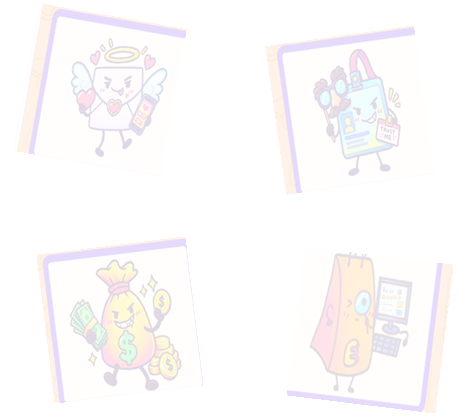
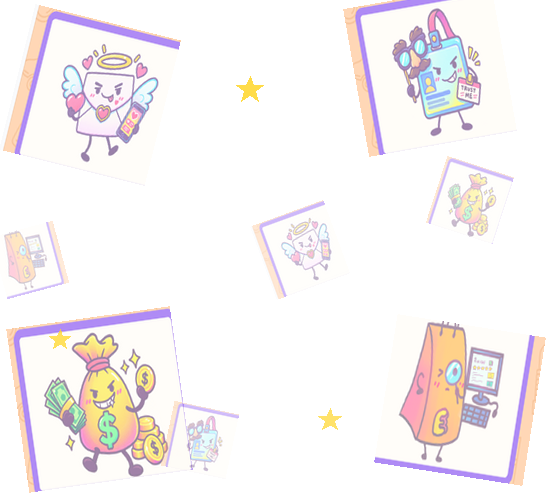
adding new features

diff --git a/css/styles.css b/css/styles.css
@@ -26,6 +26,18 @@
   box-sizing: border-box;
 }
 
+/* Any element toggled with the `hidden` attribute or `.hidden = true` in JS
+   must actually disappear. By default this works, but as soon as ANY class
+   on that element also sets `display` (e.g. .kps-btn sets display:inline-flex,
+   .kps-card sets display:flex), that class wins over the browser's built-in
+   [hidden] rule because both are "author" styles of equal specificity and
+   the later one in the cascade wins. The fix: force [hidden] to always win.
+   If you ever see an element show up even though you set .hidden = true in
+   JS, this is the rule that's supposed to prevent that — don't remove it. */
+[hidden] {
+  display: none !important;
+}
+
 html, body {
   height: 100%;
 }
@@ -58,9 +70,19 @@ code {
   align-items: stretch;
   display: block;
   padding: 0;
-  background-image: url('/assets/kps/quiz-bg-tile.png');
-  background-repeat: repeat;
-  background-size: 230px 210px;
+  /* Mascot sticker tile on top of a soft brand gradient. The gradient is
+     `background-attachment: fixed` (doesn't repeat, doesn't scroll) so it
+     reads as one continuous backdrop; the mascot tile repeats over it.
+     clamp() scales the tile itself between phone and laptop viewport
+     widths so the pattern density looks right on every screen size. */
+  background-image:
+    url('/assets/kps/quiz-bg-tile.png'),
+    linear-gradient(135deg, #ffe3f6 0%, #e6c9ff 55%, #cdeaff 100%);
+  background-repeat: repeat, no-repeat;
+  background-size:
+    clamp(200px, 26vw, 340px) clamp(179px, 23vw, 304px),
+    cover;
+  background-attachment: scroll, fixed;
 }
 
 /* ── Card (passcode / admin) ─────────────────── */
@@ -272,11 +294,35 @@ code {
   padding: 2rem 1.5rem;
   display: flex;
   flex-direction: column;
+  align-items: center;
   gap: 1rem;
 }
 .game-area h1 { font-size: 1.6rem; font-weight: 800; }
 .game-area p { font-weight: 500; }
 .game-area .kps-btn { align-self: flex-start; }
+
+/* Quiz cards specifically (not the passcode/admin login cards, which stay
+   at their original compact width) get roomier on tablet/laptop screens,
+   and their inner text scales fluidly between phone and desktop sizes
+   with clamp() instead of relying only on fixed @media breakpoints. */
+.kps-quiz-card {
+  width: 100%;
+}
+
+#quiz-scenario {
+  font-size: clamp(1.15rem, 1rem + 1.1vw, 1.6rem);
+  line-height: 1.35;
+}
+
+.kps-quiz-option {
+  font-size: clamp(0.95rem, 0.9rem + 0.3vw, 1.05rem);
+}
+
+#quiz-progress {
+  font-size: clamp(0.85rem, 0.8rem + 0.2vw, 0.95rem);
+  flex-wrap: wrap;
+  justify-content: center;
+}
 
 /* ── Admin dashboard layout ─────────────────── */
 .admin-body { background: var(--kps-bg); }
@@ -438,4 +484,21 @@ code {
   .kps-card-title { font-size: 1.5rem; }
   .game-area { padding: 1.25rem 1rem; }
   .admin-main { padding: 1.25rem 1rem; }
+  .kps-category-icon { width: 26px; height: 26px; }
+}
+
+/* Tablet and laptop: give the quiz card more breathing room than the
+   460px cap used by the passcode/admin login cards. */
+@media (min-width: 700px) {
+  .kps-quiz-card {
+    max-width: 600px;
+    padding: 2.25rem 2rem;
+  }
+}
+
+@media (min-width: 1100px) {
+  .kps-quiz-card {
+    max-width: 680px;
+    padding: 2.5rem 2.5rem;
+  }
 }

diff --git a/game/index.html b/game/index.html
@@ -19,7 +19,7 @@
 				     js/pages/game/questions.js — add more scenarios there,
 				     nothing here needs to change.
 				     ════════════════════════════════════════════════════════ -->
-				<div id="quiz-screen" class="kps-card">
+				<div id="quiz-screen" class="kps-card kps-quiz-card">
 					<p id="quiz-progress" class="kps-info"></p>
 					<h1 id="quiz-scenario" class="kps-card-title"></h1>
 					<div id="quiz-options" class="kps-quiz-options"></div>
@@ -27,7 +27,7 @@
 					<button type="button" id="quiz-next" class="kps-btn kps-btn-primary" hidden>Next</button>
 				</div>
 
-				<div id="quiz-result" class="kps-card" hidden>
+				<div id="quiz-result" class="kps-card kps-quiz-card" hidden>
 					<h1 class="kps-card-title">Nice work!</h1>
 					<p id="quiz-score" class="kps-card-subtitle"></p>
 					<p id="game-status" class="kps-info" hidden></p>

diff --git a/README.md b/README.md
@@ -10,6 +10,7 @@ A starter template for Kids PlaySafer educational web apps and games — powered
 - [Working with the database](#working-with-the-database)
 - [Analytics](#analytics)
 - [Building your game](#building-your-game)
+- [The scam quiz game (senior edition)](#the-scam-quiz-game-senior-edition)
 - [Common snippets](#common-snippets)
 - [Deploying](#deploying)
 - [Admin: one-time project setup](#admin-one-time-project-setup)
@@ -189,6 +190,191 @@ The shared kid account means **every kid appears as the same Firebase user**. Do
 
 ---
 
+## The scam quiz game (senior edition)
+
+This template's `/game/` page is currently built out as a multiple-choice
+scam-awareness quiz for seniors, covering Singapore-specific scam patterns.
+This section documents how it works so the next developer can extend it
+without having to reverse-engineer it.
+
+### File map
+
+| File | What it's for |
+|---|---|
+| `js/pages/game/questions.js` | The question bank: all scenarios, the `CATEGORIES` map, and `getRandomQuiz()` which builds one randomized playthrough. **This is the file you edit to add/change questions or categories.** |
+| `js/pages/game/index.js` | Quiz engine: renders one question at a time, scores answers, fires analytics, saves the completion doc, then hands off to the existing survey. You shouldn't need to touch this to add content — only if you're changing *how* the quiz behaves. |
+| `game/index.html` | The quiz/result card markup (`#quiz-screen`, `#quiz-result`) plus the existing survey `<template>`. |
+| `css/styles.css` | `.kps-quiz-option`, `.kps-quiz-card`, `.kps-category-icon`, `#quiz-progress`, and the `.screen-game` background rules. |
+| `assets/kps/quiz-bg-tile.png` | The repeating mascot-sticker background tile behind the game screen. |
+| `assets/kps/categories/*.png` | Full-opacity category mascot art (love, impersonation, investment, ecommerce), cropped from the original card illustrations. Used both to build the background tile and as the small icon shown next to the category name during play. |
+
+### Question bank & categories
+
+Each question in `QUESTIONS` (in `questions.js`) looks like:
+
+```javascript
+{
+  category: 'impersonation',       // must match a key in CATEGORIES
+  scenario: 'The situation...',
+  options: ['choice A', 'choice B', 'choice C', 'choice D'],
+  correctIndex: 1,                 // index into options[]
+  explanation: 'Why that answer is right — shown after the player answers',
+}
+```
+
+`CATEGORIES` maps each category key to a display label, emoji, and
+(optionally) an icon image path:
+
+```javascript
+export const CATEGORIES = {
+  impersonation: { label: 'Impersonation', emoji: '🎭', icon: '/assets/kps/categories/impersonation.png' },
+  blessing:      { label: 'Blessing Scam', emoji: '🙏', icon: null }, // no artwork yet — falls back to emoji only
+  ...
+};
+```
+
+**To add a new scam category:** add an entry to `CATEGORIES`, then add
+questions with that `category` key to `QUESTIONS`. If you have mascot
+artwork for it, drop the PNG in `assets/kps/categories/` and point `icon`
+at it — no other code changes needed. If you don't have art yet, leave
+`icon: null` and the quiz will just show the emoji + label.
+
+**To add more questions to an existing category:** just push more objects
+into `QUESTIONS` with that `category`. Nothing else needs to change.
+
+### Randomization
+
+`getRandomQuiz(perCategory = 2)` (bottom of `questions.js`) builds one
+quiz playthrough:
+
+1. Groups all questions by category.
+2. Shuffles each category's pool independently (Fisher–Yates) and takes up
+   to `perCategory` from each — so every playthrough still covers every
+   scam type, it's just *which* questions and in *what order* that varies.
+3. Shuffles the combined list so categories don't always appear in the
+   same sequence.
+
+`index.js` calls this once per page load (`const quizQuestions = getRandomQuiz();`).
+As the question bank grows, this automatically starts drawing from a
+bigger pool — you don't need to change the randomization logic.
+
+### Analytics
+
+Two events fire during the quiz (see `EVENTS` in `js/constants.js`):
+
+- **`EVENTS.QUESTION_ANSWERED`** — fires on every answer, with
+  `{ questionIndex, category, correct, selectedIndex }`. Use this to see
+  which categories (or specific scenarios) trip people up most often.
+- **`EVENTS.GAME_COMPLETED`** — fires once at the end, with
+  `{ source: 'scam_scenario_quiz', score, total }`.
+
+The `completions` doc saved at the end also stores a `categoryStats`
+object for convenience, so you don't have to reconstruct it from raw
+events:
+
+```javascript
+{
+  source: 'scam_scenario_quiz',
+  score: 7,
+  total: 10,
+  durationMs: 143201,
+  categoryStats: {
+    impersonation: { correct: 2, total: 2 },
+    blessing:      { correct: 1, total: 2 },
+    love:          { correct: 2, total: 2 },
+    investment:    { correct: 1, total: 2 },
+    ecommerce:     { correct: 1, total: 2 },
+  },
+}
+```
+
+This is exactly the shape you'd want for an admin dashboard chart of
+"average score by scam category" — query `completions` and aggregate
+`categoryStats` client-side, no schema change needed.
+
+### Background art (the mascot tile)
+
+`.screen-game` layers two backgrounds:
+
+1. `assets/kps/quiz-bg-tile.png` — a repeating tile of the category mascots
+   at partial opacity plus a few sparkle accents, arranged off-grid so it
+   reads as scattered stickers rather than a rigid pattern.
+2. A fixed (non-scrolling, non-repeating) diagonal brand-color gradient
+   behind it, so the backdrop has color and depth even in the gaps between
+   mascots.
+
+Both are declared together in the `background-image` / `background-size`
+/ `background-repeat` / `background-attachment` shorthand properties on
+`.screen-game` in `css/styles.css` — each property takes two comma-separated
+values, one per layer, in the same order.
+
+**To regenerate the tile** (e.g. with new or updated mascot art): the tile
+was built with a short Python/Pillow script that crops each card's
+illustration, scales/rotates copies of it, composites them onto a
+transparent canvas at partial opacity, and draws a few star accents on
+top. If you're changing the artwork, the fastest path is redoing that
+composite (any image editor or a similar script works) and overwriting
+`assets/kps/quiz-bg-tile.png` — the CSS doesn't need to change unless you
+change the tile's aspect ratio.
+
+The tile's `background-size` uses `clamp()` so the pattern scales down on
+phones and up on laptops instead of staying a fixed pixel size — see
+**Responsive design** below.
+
+### Responsive design (phone / tablet / laptop)
+
+- `.kps-quiz-card` (applied to both `#quiz-screen` and `#quiz-result`, in
+  addition to `.kps-card`) caps the quiz card's width at 460px on phones,
+  600px from 700px viewport width up, and 680px from 1100px up (see the
+  `@media (min-width: 700px)` / `@media (min-width: 1100px)` rules in
+  `css/styles.css`). This is separate from the 460px cap used by the
+  passcode/admin login cards, which are intentionally left compact.
+- The scenario heading, answer-option text, and progress line use
+  `clamp(min, preferred, max)` font sizes instead of fixed `rem` values,
+  so text scales smoothly across screen sizes instead of jumping at
+  breakpoints.
+- The background tile's `background-size` also uses `clamp()` (in `vw`
+  units) so the mascot pattern's density looks right on both a phone and
+  a laptop screen instead of being a fixed pixel size that looks
+  oversized on small screens or sparse on large ones.
+- `.game-area` has `align-items: center`, so the quiz card stays centered
+  at every viewport width rather than only looking centered by
+  coincidence at one width.
+
+If you add new elements to the quiz card, prefer `clamp()` over fixed
+`rem`/`px` sizes for anything text-related, and test at roughly 375px
+(phone), 820px (tablet), and 1440px (laptop) widths.
+
+### A CSS gotcha worth knowing: `[hidden]` vs. `display`
+
+The template hides/shows elements with the native `hidden` attribute
+(`element.hidden = true` in JS, or a static `hidden` attribute in HTML).
+By default the browser hides anything with `hidden` — **but only if no
+other CSS rule on that element also sets `display`.** Several classes in
+this template do (`.kps-btn` sets `display: inline-flex`, `.kps-card`
+sets `display: flex`), and those rules override the browser's default
+`[hidden]` behavior because both are "author" styles of equal
+specificity, and the later one in the stylesheet wins.
+
+This was previously a real bug here: the "Next" button and the results
+card were both visible from the very first question, because `.kps-btn`
+and `.kps-card` silently cancelled out their `hidden` attributes.
+
+The fix is one rule near the top of `css/styles.css`:
+
+```css
+[hidden] {
+  display: none !important;
+}
+```
+
+**Don't remove this rule.** If you ever add a new element that should be
+hidden/shown via the `hidden` attribute and it doesn't seem to work,
+check whether some other class on it also sets `display` — that's almost
+certainly why, and this rule is what's supposed to prevent it.
+
+---
+
 ## Common snippets
 
 Copy-paste starting points for the things you'll do most.
@@ -362,17 +548,22 @@ kps-project-template/
 │   └── pages/              ← one JS file per HTML page (mirrors HTML layout)
 │       ├── index.js        ← drives index.html
 │       ├── game/
-│       │   └── index.js    ← drives game/index.html (edit for your game)
+│       │   ├── index.js     ← quiz engine — drives game/index.html
+│       │   └── questions.js ← question bank + CATEGORIES + getRandomQuiz() — edit this to add content
 │       └── admin/
 │           ├── index.js    ← drives admin/index.html
 │           └── dashboard.js ← drives admin/dashboard.html
 ├── assets/kps/             ← logo + favicon
+│   ├── quiz-bg-tile.png    ← repeating mascot background tile for the game screen
+│   └── categories/         ← full-opacity category mascot art (love, impersonation, investment, ecommerce)
 ├── firestore.rules         ← Firestore access rules (read this!)
 ├── firebase.json           ← hosting + Firestore config (used at deploy)
 └── .firebaserc             ← Firebase project ID
 ```
 
 **One feature, one folder.** To change the game UI, you edit `game/index.html` and `js/pages/game/index.js`. Same for admin. No router, no hidden sections, no template literals.
+
+See [The scam quiz game (senior edition)](#the-scam-quiz-game-senior-edition) above for how the current quiz content, randomization, analytics, background art, and responsive sizing fit together.
 
 ---
 
